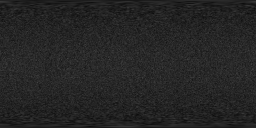
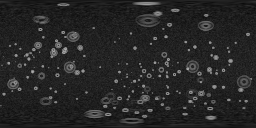
Io's named mountains, mensae, plana and paterae (LANDS): relief::Landform places Gazetteer features of a type (generic: asset-tool::gazetteer::named) with one shape each, a flat top or floor and a smooth slope, height proportional to diameter and clamped: Io's 26 mountains at 0.04 x diameter (2-17.5

diff --git a/crates/asset-tool/src/relief.rs b/crates/asset-tool/src/relief.rs
@@ -59,6 +59,61 @@ pub struct Relief {
     /// Longest wavelength of the regional fBm (m).
     pub relief_wavelength_m: f64,
     pub seed: u64,
+    /// Named non-crater landforms placed from the Gazetteer (Io's mountains
+    /// and paterae).
+    pub landforms: &'static [Landform],
+}
+
+/// A kind of named landform drawn with one shape: a flat top (or floor)
+/// out to `flat` of its radius, then a smooth slope to its edge; height
+/// `height_per_diameter × diameter`, its magnitude clamped to
+/// `min_m..=max_m` (negative heights are depressions).
+#[derive(Clone, Copy, Debug)]
+pub struct Landform {
+    /// Gazetteer type prefix (`"Mons"`, `"Patera"`, `"Mensa"`…).
+    pub kind: &'static str,
+    pub height_per_diameter: f64,
+    pub min_m: f64,
+    pub max_m: f64,
+    pub flat: f64,
+}
+
+impl Landform {
+    /// Height (m) of a landform of diameter `d` (m) at `x` radii from its centre.
+    pub fn profile(&self, d: f64, x: f64) -> f64 {
+        if x >= 1.0 {
+            return 0.0;
+        }
+        let hgt =
+            self.height_per_diameter.signum() * (self.height_per_diameter.abs() * d).clamp(self.min_m, self.max_m);
+        let t = ((x - self.flat) / (1.0 - self.flat)).clamp(0.0, 1.0);
+        hgt * (1.0 - t * t * (3.0 - 2.0 * t))
+    }
+}
+
+/// Adds `f(x)` (x: angular distance over `r_ang`, 0..1) to a `w × h` grid
+/// around (`lat`, `lon`) in degrees.
+pub fn stamp_shape(z: &mut [f32], w: usize, h: usize, lat: f64, lon: f64, r_ang: f64, f: impl Fn(f64) -> f64) {
+    let p = unit(lat, lon);
+    let reach = r_ang.to_degrees();
+    let j0 = (((90.0 - lat - reach) / 180.0 * h as f64).floor().max(0.0)) as usize;
+    let j1 = (((90.0 - lat + reach) / 180.0 * h as f64).ceil().max(0.0) as usize).min(h);
+    for j in j0..j1 {
+        let row_lat = 90.0 - (j as f64 + 0.5) * 180.0 / h as f64;
+        let c = row_lat.to_radians().cos();
+        let half = if c * 180.0 < reach + 1.0 { 180.0 } else { (reach / c + 360.0 / w as f64).min(180.0) };
+        let i0 = ((lon - half + 180.0) / 360.0 * w as f64).floor() as i64;
+        let i1 = ((lon + half + 180.0) / 360.0 * w as f64).ceil() as i64;
+        let (i0, i1) = if i1 - i0 >= w as i64 { (0, w as i64 - 1) } else { (i0, i1) };
+        for ii in i0..=i1 {
+            let i = ii.rem_euclid(w as i64) as usize;
+            let q = unit(row_lat, -180.0 + (i as f64 + 0.5) * 360.0 / w as f64);
+            let x = (p[0] * q[0] + p[1] * q[1] + p[2] * q[2]).clamp(-1.0, 1.0).acos() / r_ang;
+            if x < 1.0 {
+                z[j * w + i] += f(x) as f32;
+            }
+        }
+    }
 }
 
 /// A crater on the sphere.
@@ -319,6 +374,15 @@ pub fn generate(r: &Relief, s: crate::planets::Spheroid, w: usize, h: usize) -> 
             *v = (limit * (f64::from(*v) / limit).tanh()) as f32;
         }
     }
+    for lf in r.landforms {
+        let target = r.gazetteer.expect("named landforms need a Gazetteer target");
+        let list: Vec<_> = gazetteer::named(target, lf.kind).into_iter().filter(|f| f.diameter_km > 0.0).collect();
+        println!("  {} named {}", list.len(), lf.kind);
+        for f in list {
+            let d = f.diameter_km * 1000.0;
+            stamp_shape(&mut z, w, h, f.lat, f.lon, 0.5 * d / radius, |x| lf.profile(d, x));
+        }
+    }
     for j in 0..h {
         let lat = 90.0 - (j as f64 + 0.5) * 180.0 / h as f64;
         let reference = s.radius(lat);
@@ -405,6 +469,28 @@ mod tests {
     }
 
     #[test]
+    fn landforms_have_flat_tops_and_clamped_heights() {
+        let mons = Landform { kind: "Mons", height_per_diameter: 0.04, min_m: 2000.0, max_m: 17_000.0, flat: 0.3 };
+        assert_eq!(mons.profile(100_000.0, 0.0), 4000.0);
+        assert_eq!(mons.profile(100_000.0, 0.3), 4000.0);
+        assert_eq!(mons.profile(100_000.0, 1.0), 0.0);
+        assert_eq!(mons.profile(10_000.0, 0.0), 2000.0);
+        assert_eq!(mons.profile(1_000_000.0, 0.0), 17_000.0);
+        let patera = Landform { kind: "Patera", height_per_diameter: -0.02, min_m: 500.0, max_m: 2000.0, flat: 0.7 };
+        assert_eq!(patera.profile(50_000.0, 0.5), -1000.0);
+        assert!(patera.profile(50_000.0, 0.9) > -1000.0 && patera.profile(50_000.0, 0.9) < 0.0);
+        // Stamped where it was placed, nothing beyond its radius.
+        let (w, h) = (360, 180);
+        let mut z = vec![0.0f32; w * h];
+        stamp_shape(&mut z, w, h, 30.5, -99.5, 10f64.to_radians(), |x| mons.profile(100_000.0, x));
+        assert_eq!(z[59 * w + 80], 4000.0);
+        assert_eq!(z[59 * w + 100], 0.0);
+        let mut zp = vec![0.0f32; w * h];
+        stamp_shape(&mut zp, w, h, 89.5, 0.0, 5f64.to_radians(), |_| 1.0);
+        assert!(zp[..w].iter().all(|&v| v == 1.0), "a polar landform covers the whole first row");
+    }
+
+    #[test]
     fn triaxial_shape_heights() {
         let (a, b, c) = (207_800.0f64, 196_700.0f64, 190_600.0f64);
         let eq = (a * b).sqrt();
@@ -422,6 +508,7 @@ mod tests {
             relief_m: 500.0,
             relief_wavelength_m: 400_000.0,
             seed: 3,
+            landforms: &[],
         };
         let s = crate::planets::Spheroid { a: 1_000_000.0, c: 1_000_000.0 };
         let z = generate(&r, s, 512, 256).heights;

diff --git a/crates/asset-tool/src/specs.rs b/crates/asset-tool/src/specs.rs
@@ -10,7 +10,7 @@
 //! IAU (pck00011) or the body's `body.ron` source.
 
 use crate::planets::{ColorSource, Colors, HeightSource, Heights, Spec};
-use crate::relief::{Craters, Relief};
+use crate::relief::{Craters, Landform, Relief};
 
 const fn mosaic(file: &'static str, bands: [usize; 3]) -> Colors {
     Colors::Mosaic(ColorSource { url: file, file, bands, zero_is_no_data: true })
@@ -31,8 +31,28 @@ const fn relief(
     relief_m: f64,
     seed: u64,
 ) -> Heights {
-    Heights::Procedural(Relief { axes, craters, gazetteer, relief_m, relief_wavelength_m: 400_000.0, seed })
+    Heights::Procedural(Relief {
+        axes,
+        craters,
+        gazetteer,
+        relief_m,
+        relief_wavelength_m: 400_000.0,
+        seed,
+        landforms: &[],
+    })
 }
+
+/// Io's named landforms (Gazetteer positions and diameters; heights are
+/// typical values): mountains 6 km on average and up to 17.5 km high with
+/// flat-topped, block-like forms (Schenk et al. 2001, JGR 106, 33201),
+/// mensae and plana 1-3 km, paterae ~1 km deep, flat-floored (Radebaugh et
+/// al. 2001, JGR 106, 33005).
+const IO_LANDFORMS: &[Landform] = &[
+    Landform { kind: "Mons", height_per_diameter: 0.04, min_m: 2000.0, max_m: 17_500.0, flat: 0.3 },
+    Landform { kind: "Mensa", height_per_diameter: 0.01, min_m: 1000.0, max_m: 3000.0, flat: 0.6 },
+    Landform { kind: "Planum", height_per_diameter: 0.005, min_m: 500.0, max_m: 2000.0, flat: 0.6 },
+    Landform { kind: "Patera", height_per_diameter: -0.02, min_m: 500.0, max_m: 2000.0, flat: 0.7 },
+];
 
 const fn spec(body: &'static str, height: Heights, color: Colors, widths: (usize, usize, usize)) -> Spec {
     Spec { body, height, color, height_scale: 1.0, height_w: widths.0, color_w: widths.1, zones_w: widths.2 }
@@ -164,8 +184,17 @@ pub const SPECS: &[Spec] = &[
     ),
     spec(
         "io",
-        // No impact craters survive Io's resurfacing; regional relief only.
-        relief(Some((1_829_400.0, 1_819_400.0, 1_815_700.0)), None, None, 700.0, 0x10),
+        // No impact craters survive Io's resurfacing: its named mountains,
+        // mensae, plana and paterae, and regional relief.
+        Heights::Procedural(Relief {
+            axes: Some((1_829_400.0, 1_819_400.0, 1_815_700.0)),
+            craters: None,
+            gazetteer: Some("IO"),
+            relief_m: 500.0,
+            relief_wavelength_m: 400_000.0,
+            seed: 0x10,
+            landforms: IO_LANDFORMS,
+        }),
         mosaic("Io_GalileoSSI-Voyager_Global_Mosaic_ClrMerge_1km.tif", RGB),
         (1024, 2048, 2048),
     ),

diff --git a/crates/asset-tool/src/gazetteer.rs b/crates/asset-tool/src/gazetteer.rs
@@ -72,9 +72,15 @@ pub fn features(records: &[Vec<(String, String)>]) -> Vec<Feature> {
         .collect()
 }
 
-/// The named craters of `target` (e.g. `"CALLISTO"`), downloaded and
-/// unpacked into `data/external/gazetteer/` once.
+/// The named craters of `target` (e.g. `"CALLISTO"`).
 pub fn craters(target: &str) -> Vec<Feature> {
+    named(target, "Crater")
+}
+
+/// The named features of `target` whose type starts with `kind` (e.g.
+/// `"Mons"`, `"Patera"`), downloaded and unpacked into
+/// `data/external/gazetteer/` once.
+pub fn named(target: &str, kind: &str) -> Vec<Feature> {
     let stem = format!("{target}_nomenclature_center_pts");
     let dir = Path::new(EXTERNAL).join("gazetteer");
     std::fs::create_dir_all(&dir).expect("create the gazetteer directory");
@@ -87,7 +93,7 @@ pub fn craters(target: &str) -> Vec<Feature> {
     }
     let bytes = std::fs::read(&dbf).unwrap_or_else(|e| panic!("{}: {e}", dbf.display()));
     let all = features(&parse_dbf(&bytes));
-    all.into_iter().filter(|f| f.kind.starts_with("Crater")).collect()
+    all.into_iter().filter(|f| f.kind.starts_with(kind)).collect()
 }
 
 #[cfg(test)]

diff --git a/crates/sim/tests/solar_terrain.rs b/crates/sim/tests/solar_terrain.rs
@@ -141,7 +141,7 @@ fn surfaces_match_golden_hashes() {
 const GOLDEN: &[(&str, u64)] = &[
     ("Mercury", 0x93a1f0228621cd2b),
     ("Mars", 0x9a96c8e7420f2c0a),
-    ("Io", 0x4459ca49f80b87ba),
+    ("Io", 0xb8196ba6b803372d),
     ("Europa", 0x1345978025925c60),
     ("Ganymede", 0x425cae0733d6a875),
     ("Callisto", 0x78b66183e9bae787),

diff --git a/docs/features/solar-visuals.md b/docs/features/solar-visuals.md
@@ -124,7 +124,7 @@ All maps are USGS Astrogeology / NASA PDS products (public domain): `https://asc
 
 ### Gaps
 
-- No global DEM exists for the Galileans, Saturn's mid-size moons (Schenk's stereo/photoclinometry products are not in the USGS archive), Triton or Uranus's moons: their relief is procedural, and only the named craters line up with the photographs. Not modelled: Iapetus's 20 km equatorial ridge, Io's mountains and paterae, Europa's ridges, Miranda's coronae and cliffs, Tethys's Ithaca Chasma.
+- No global DEM exists for the Galileans, Saturn's mid-size moons (Schenk's stereo/photoclinometry products are not in the USGS archive), Triton or Uranus's moons: their relief is procedural, and only the named craters line up with the photographs. Io's 26 named mountains, 9 mensae, 8 plana and 170 paterae are placed from the Gazetteer with typical heights (mountains 0.04 × diameter, 2–17.5 km: Schenk et al. 2001; paterae ~1 km deep: Radebaugh et al. 2001). Not modelled: Iapetus's 20 km equatorial ridge, Io's unnamed mountains, Europa's ridges, Miranda's coronae and cliffs, Tethys's Ithaca Chasma.
 - Sub-pixel craters are a statistical field, not the real small craters; the Moon (not LANDS') does not use them yet.
 - Haumea's shape is the JPL triaxial 1050 × 840 × 537 km (Ortiz et al. 2017 measured 1161 × 852 × 513).
 - Loading: the game loads every body's colour and zone maps at start (about 35 more bodies), and `World::sol` decodes every heightmap (~0.9 s in tests); loading by distance would bound GPU memory.
